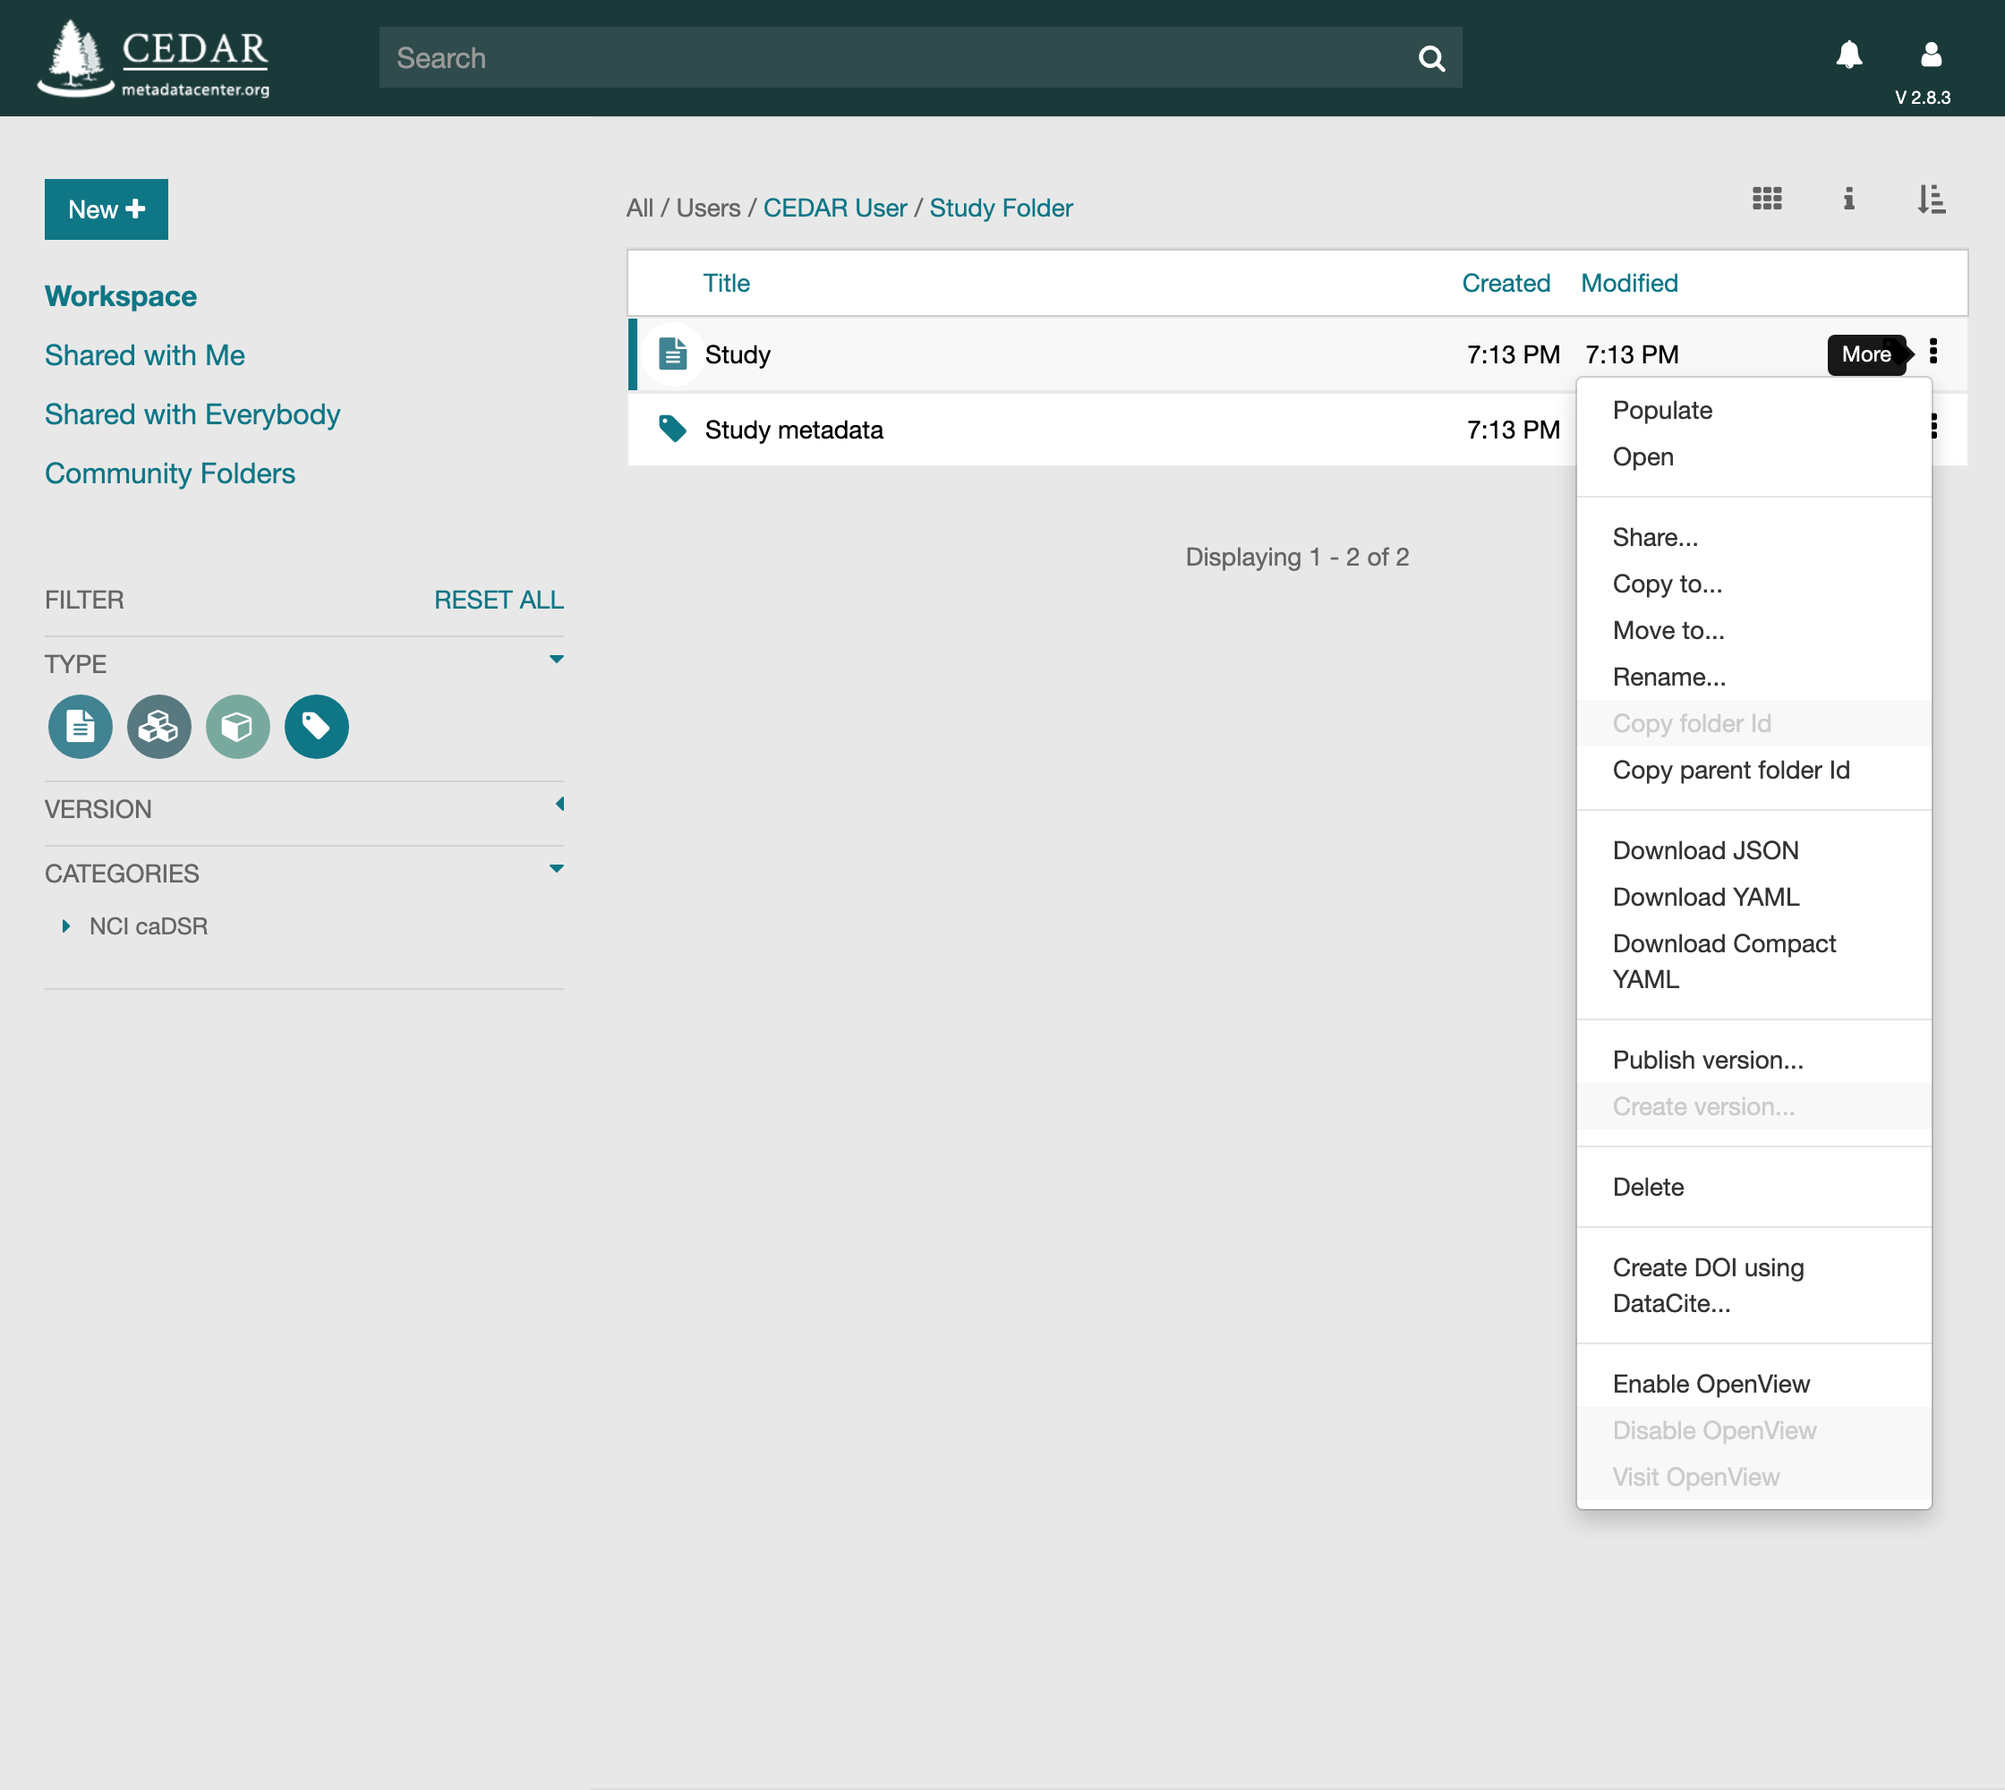
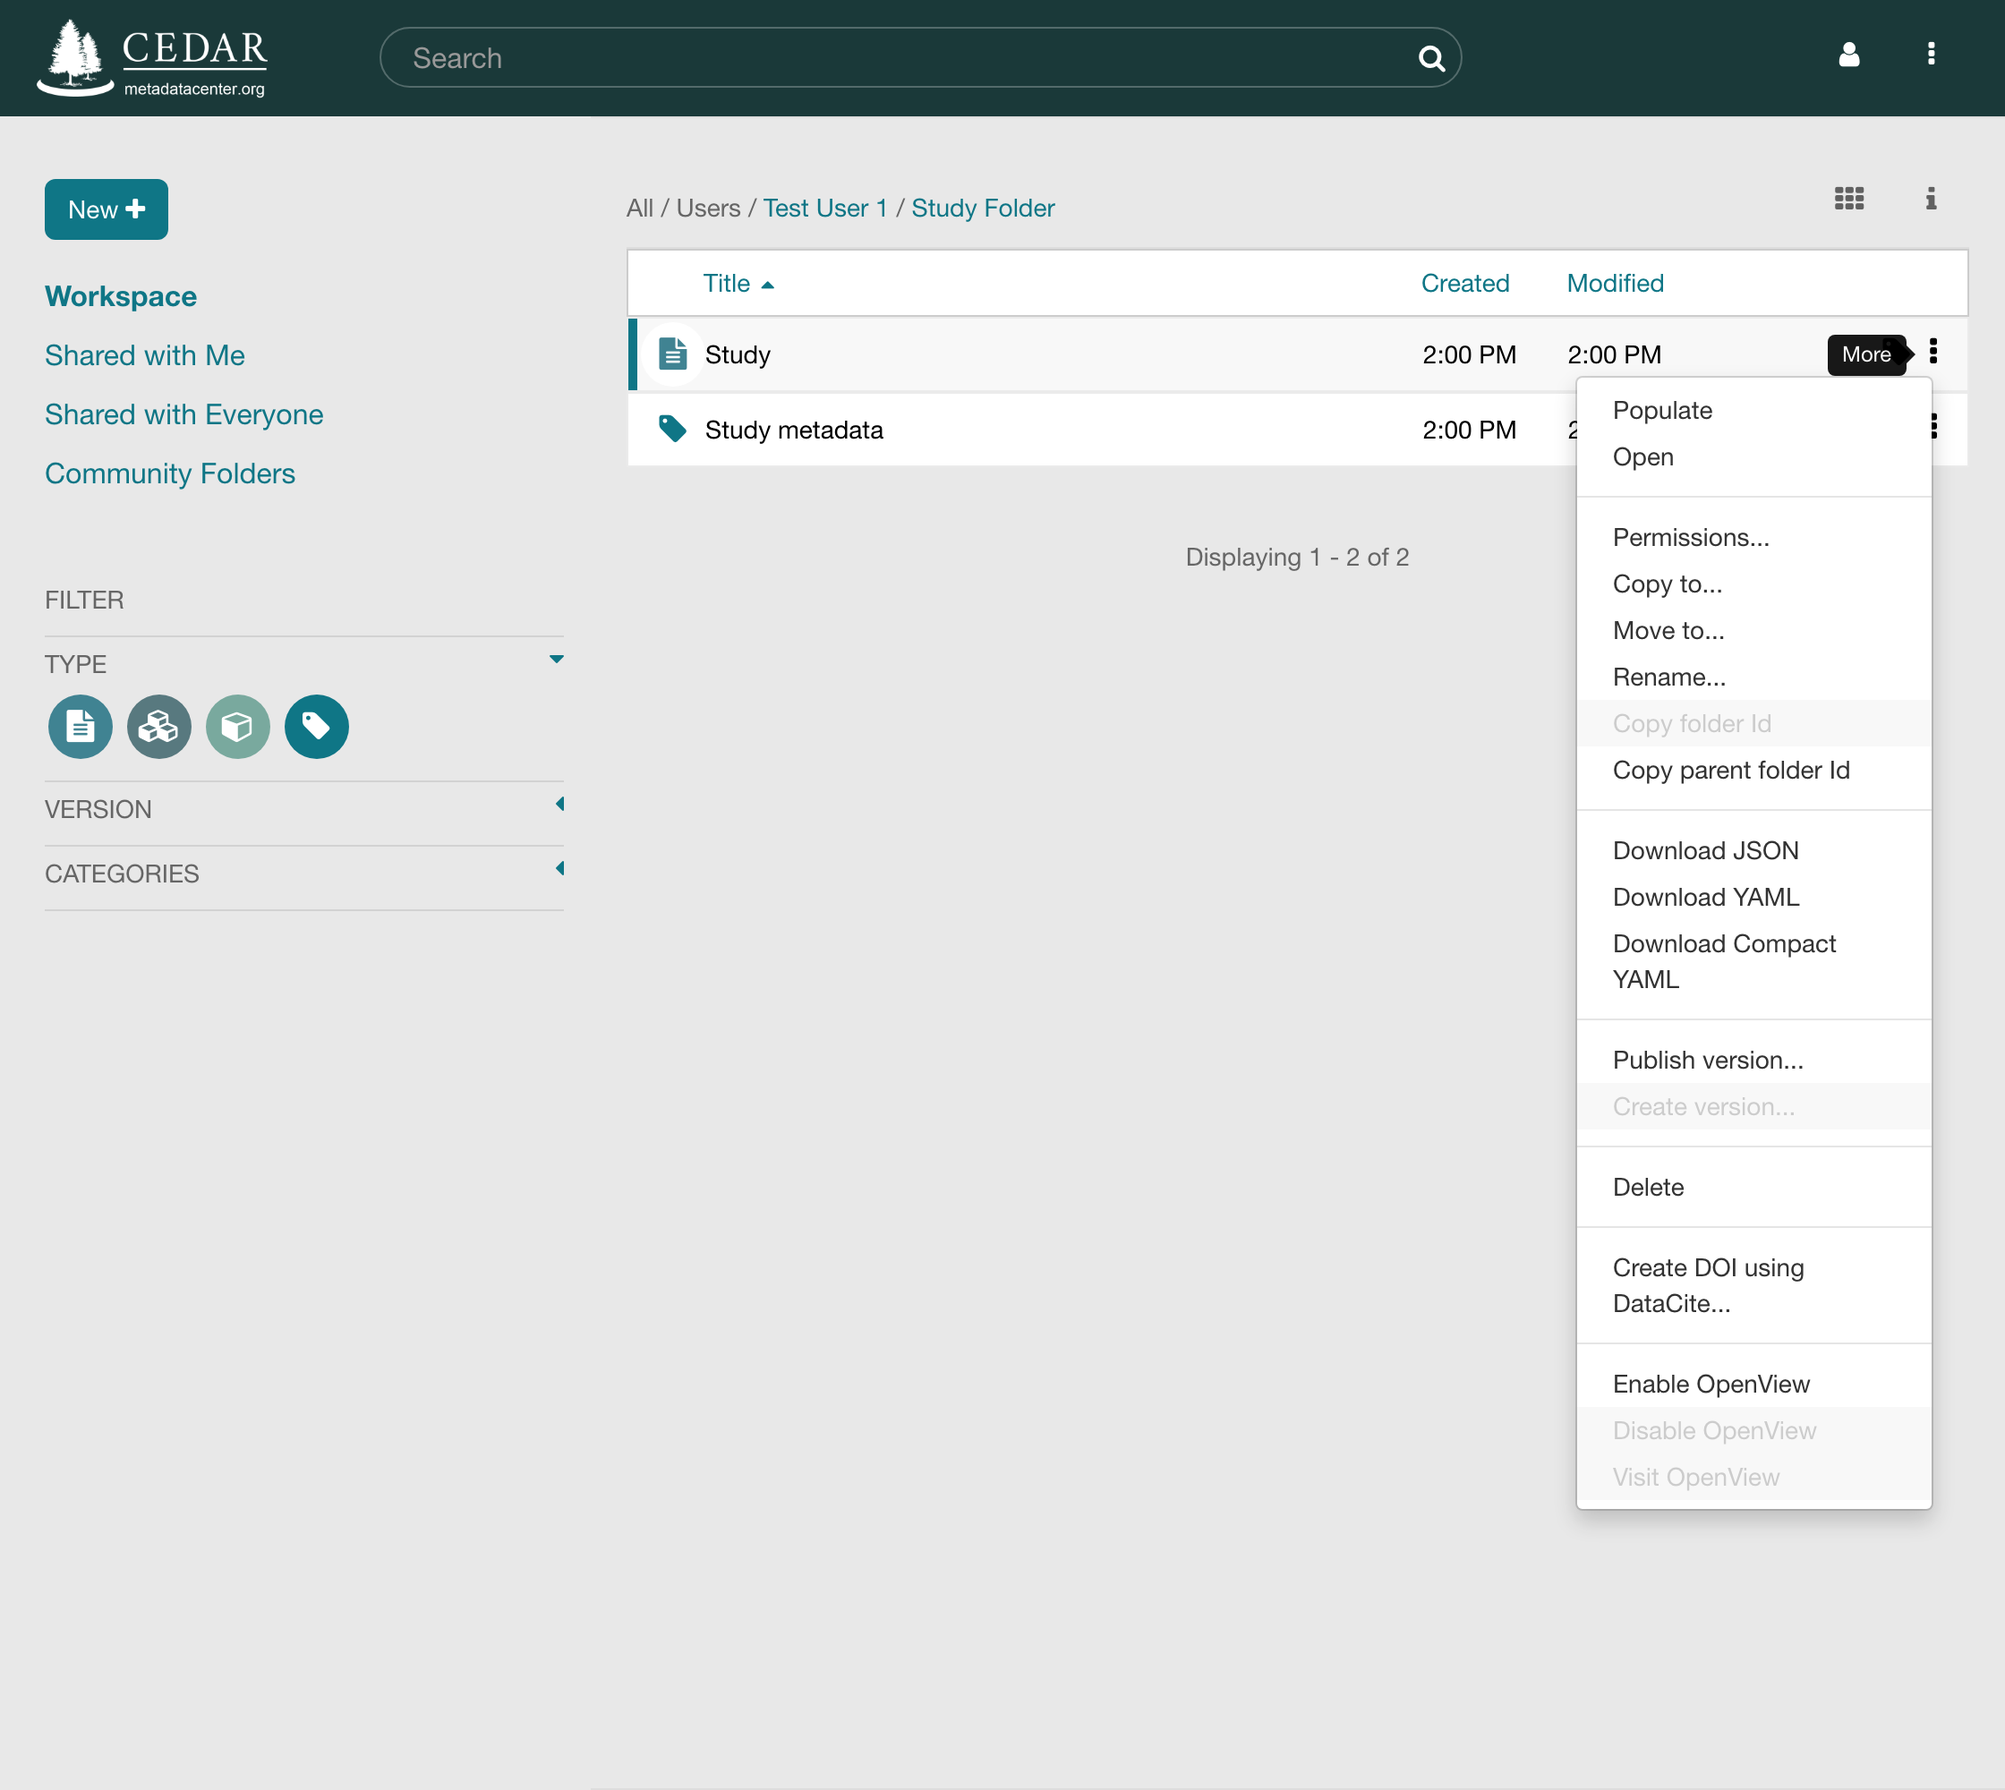
Carry the permission roles through the rest of the user guide
Pages outside the sharing chapter still spoke of read and write permission, of
sharing for reading and writing, and of a "Shared with Everybody" sidebar entry
the Workbench calls "Shared with Everyone". Each operation now names the role it
requires, so moving a resource asks for Manager on it and Editor on the
destination rather than an unqualified write.

The caDSR walkthrough described a share dialog with "With people" and "With
groups" sections and read, write or owner privileges, none of which the
Workbench has. Its share step now describes the permissions dialog, and its
three figures give way to generated ones, among them the dialog on a template.

The regenerated resource menu shows Permissions in place of Share, so the prose
around it follows: it no longer offers Copy as the example of an unavailable
item, where the menu grays out the folder-only and unpublished commands
instead, and no longer promises a section on Submit, which the menu dropped and
no page covers.

diff --git a/docs/user-guide/cedar-for-cadsr.md b/docs/user-guide/cedar-for-cadsr.md
@@ -190,7 +190,7 @@ If you fill out your template and click the SAVE button, the {{ page.cedarw }} w
 
 If you want to organize your templates using folders, you can create new folders by clicking the "New +" button at the top left and selecting Folder from the resulting dropdown menu. Once you have your desired folder structure in place, you can click on the More buttons associated with your templates and select the "Copy to..." and/or "Move to..." menu items to relocate your templates:
 
-![More menu for artifacts](../img/userguide/cadsr/more-menu.png)<br />
+![More menu for artifacts](../img/userguide/resource-menu.png)<br />
 
 The More menu also contains options for renaming and deleting your templates.
 
@@ -198,15 +198,17 @@ The More menu also contains options for renaming and deleting your templates.
 #### Step 6 - Share your template
 <a name="share-template"></a>
 
-When you create a template in your workspace or inside of a personal folder structure, you are the only person that can view and edit your template. The {{ page.cedarw }} facilitates the ability to grant other users and groups of users the ability to view and/or edit your templates.
+When you create a template in your workspace or inside of a personal folder structure, you are the only person that can view and edit your template. The {{ page.cedarw }} lets you grant other users, and groups of users, access to your templates.
 
-If you wish to share your template with another user or group, click the More icon and select the "Share..." menu item to bring up the "Share settings" modal dialog:
+If you wish to share your template, click the More icon and select the "Permissions..." menu item to bring up the Permissions dialog:
 
-![Share settings modal dialog](../img/userguide/cadsr/share-settings-modal.png)<br />
+![Permissions dialog for a template](../img/userguide/permissions-dialog-template.png)<br />
 
-Use the "With people" section to locate other users with whom you would like to share your template. After selecting a user name, you can use the dropdown on the right hand side of the user name to specify whether the user has read, write, or owner privileges for your template.
+Under "Add users or groups", type a name to find the user or group you want, choose a role for them, and click Add. The role decides what they can do: a Viewer can read the template, an Editor can also change it, and a Manager can additionally change who else has access. The table below lists the template's owner and everyone you have added, and you can change or remove a role there at any time.
 
-Use the "With groups" section to search for group names with whom you would like to share your template. The same read, write, and owner privileges are available to groups.
+To hand the template to someone else, check the box in the Owner column of their row. Only the owner can transfer ownership, and only to a user, since a group cannot own a template.
+
+[Sharing Resources](sharing-resources.md) covers the dialog, groups, and the roles in full.
 
 
 <!-- ## Modifying CDEs using the copy method
@@ -352,7 +354,7 @@ When forms are imported into the {{ page.cedarw }}, the resulting templates are 
 
 Published templates are unmodifiable. If you wish to make changes to an imported template, you first need to make a copy of the template. Click the More menu (three vertical dots), select Copy to..., and save a copy of the template to a location of your choice.
 
-![More menu for a template](../img/userguide/cadsr/template-more-menu.png)<br />
+![More menu for a template](../img/userguide/resource-menu.png)<br />
 
 The copied template will not have a published status and will allow you to make any desired modifications:
 

diff --git a/docs/user-guide/managing-resources.md b/docs/user-guide/managing-resources.md
@@ -3,19 +3,21 @@
 In CEDAR, resources are the artifacts (templates, elements, fields, and metadata instances)
 and the folders that hold them. You manage them from your
 [workspace](your-cedar-workspace.md). Management covers copying, moving, renaming, and deleting
-resources, and setting their sharing permissions.
+resources, and setting who can reach them.
 
 To fill out metadata for a template, the **Populate** command opens the Metadata Creator set
 up for that template. To edit an artifact, including a filled-out instance, the **Open**
 command opens the right tool: the Template Designer for templates, elements, and fields, and
 the Metadata Creator for instances. For a folder, **Open** shows that folder in the middle
-pane. Other commands, such as Publish, Create Version, and Submit, are covered in their own
-sections of this guide.
+pane. The version commands are covered in [Artifact Versioning](artifact-versioning.md), and the
+OpenView commands in [OpenView](openview.md).
 
 Every command lives on a resource's menu, opened by the vertical dots (the kebab menu, **⋮**)
-at the right of the resource. From it you can move, copy, rename, delete, and share the
-resource. A grayed-out item, such as Copy…, is unavailable for that resource. If *every* item
-is grayed out, no resource is selected, or there is a permissions inconsistency.
+at the right of the resource. From it you can move, copy, rename, and delete the resource, and
+set who can reach it. A grayed-out item is unavailable for that resource, such as Copy folder
+Id on an artifact, which only folders have, or Create version on a template that has never been
+published. If *every* item is grayed out, no resource is selected, or there is a permissions
+inconsistency.
 
 ## Choosing a Destination
 
@@ -31,24 +33,26 @@ display; with one highlighted, that folder is the destination.
 
 ### Copy To
 
-After choosing **Copy to…**, select the destination folder and click COPY. Copying needs read
-permission on the resource, and write permission on the destination. You can copy any artifact
-to a folder you can write to, but you cannot copy a whole folder in one command.
+After choosing **Copy to…**, select the destination folder and click COPY. Copying needs the
+Viewer role on the resource and the Editor role on the destination. You can copy any artifact
+to a folder where you are an Editor, but you cannot copy a whole folder in one command.
 
 ### Move To
 
-After choosing **Move to…**, select the destination folder and click MOVE. Moving needs write
-permission on the resource. You can move any artifact or folder to a folder you can write to.
+After choosing **Move to…**, select the destination folder and click MOVE. Moving needs the
+Manager role on the resource and the Editor role on the destination. You can move any artifact
+or folder to a folder where you are an Editor.
 
 ## Rename
 
-After choosing **Rename…**, enter the new name. Renaming needs write permission on the
+After choosing **Rename…**, enter the new name. Renaming needs the Editor role on the
 resource.
 
-## Share
+## Permissions
 
-The **Share…** command opens the sharing window, where you handle all sharing and group
-management. See [Sharing Resources](sharing-resources.md) for details.
+The **Permissions…** command opens the Permissions dialog, which shows who can reach the
+resource and lets its owner or a Manager grant, change, and remove access. See
+[Sharing Resources](sharing-resources.md) for details.
 
 ## Delete
 

diff --git a/docs/user-guide/viewing-resource-information.md b/docs/user-guide/viewing-resource-information.md
@@ -26,7 +26,7 @@ or select the artifact and use the resource menu (*⋮*) to select Open.
 Both techniques work whether you are in search or browse mode.
 
 You will be shown a viewing window that lets you navigate throughout the artifact,
-open and close sections of metadata instances, and if you have write permission,
+open and close sections of metadata instances, and if you hold the Editor role,
 make changes to the document. 
 
 This is also the view which enables seeing the raw artifact content inside CEDAR.
@@ -92,13 +92,13 @@ The artifact is saved only when you click the Save button; it will not be saved 
 When the artifact opens, you will see a formatted view of its content.
 You can navigate throughout the artifact,
 in some cases open and close sections of the document, 
-and if you have write permission, make changes to the document. 
+and if you hold the Editor role, make changes to the document. 
 
 #### Artifact Headers
 
 At the top of the view, you will see the name of the artifact, 
 an identifier field, and the artifact description. 
-All three fields can be modified by a user with write permission on the artifact.
+All three fields can be modified by a user who holds the Editor role on the artifact.
 
 To the left of the artifact name is a left arrow. 
 If you click on this left arrow, CEDAR will return to the previous folder view.

diff --git a/docs/user-guide/filling-out-metadata.md b/docs/user-guide/filling-out-metadata.md
@@ -55,12 +55,13 @@ template of sorts, an instance profile, with the shared fields already filled in
 Object template, you might save a profile named "MyLab Study Object Metadata name date",
 pre-filled with everything common to every instance.
 
-Make the profile read-only so it is not overwritten by accident, and give everyone who will
-copy it read permission on it or its folder. To create a new instance, copy the profile and
-replace the placeholder parts of the title, such as "name" and "date", with the author and
-date of the copy. The copy carries all the profile's values and is filled out and saved
-normally. See [Sharing Resources](sharing-resources.md) for setting up folders others can write
-to.
+Give everyone who will copy the profile the Viewer role on it or on its folder, which lets them
+read it without changing it. To create a new instance, copy the profile and replace the
+placeholder parts of the title, such as "name" and "date", with the author and date of the copy.
+The copy carries all the profile's values and is filled out and saved normally. Copying needs
+the Editor role on the destination folder, so the people who use the profile need that role
+somewhere to save their copies. See [Sharing Resources](sharing-resources.md) for granting
+it.
 
 ### From the API
 

diff --git a/docs/user-guide/your-cedar-workspace.md b/docs/user-guide/your-cedar-workspace.md
@@ -12,7 +12,7 @@ pane between this list and a card view.
 
 **The links on the left** choose which resources appear. *Workspace* is your own home folder,
 *Shared with Me* is content shared with you or with a team you belong to, *Shared with
-Everybody* is content shared with every CEDAR user, and *Community Folders* gathers folders
+Everyone* is content shared with every CEDAR user, and *Community Folders* gathers folders
 shared by CEDAR communities. Above the pane, a location string shows the folder you are in;
 click a folder in it to move up the hierarchy.
 

diff --git a/docs/user-guide/finding-resources.md b/docs/user-guide/finding-resources.md
@@ -16,7 +16,7 @@ A search can return more resources than you want to scan. CEDAR groups resources
 sets by ownership and sharing: resources you created, under the **Workspace** tab; resources
 shared with you; and public resources shared with everyone.
 
-To search within one set, click it (for example, **Shared With Everybody**) and type the
+To search within one set, click it (for example, **Shared with Everyone**) and type the
 search string as before. CEDAR shows only the resources in that set whose label, version, or
 description matches.
 

diff --git a/docs/user-guide/pages/glossary.md b/docs/user-guide/pages/glossary.md
@@ -126,9 +126,9 @@ allows users to search, browse, and manage CEDAR resources.
 
 ---
 
-**share**: allow a user or group of users to have access permissions (read-only, 
-or read + write) to an artifact or folder (folder access permissions are
-inherited recursively to all content in that folder).
+**share**: grant a user or group the Viewer, Editor, or Manager role on an artifact or
+folder. A role granted on a folder applies to everything the folder contains, at every
+level of nesting.
 
 ---
 
